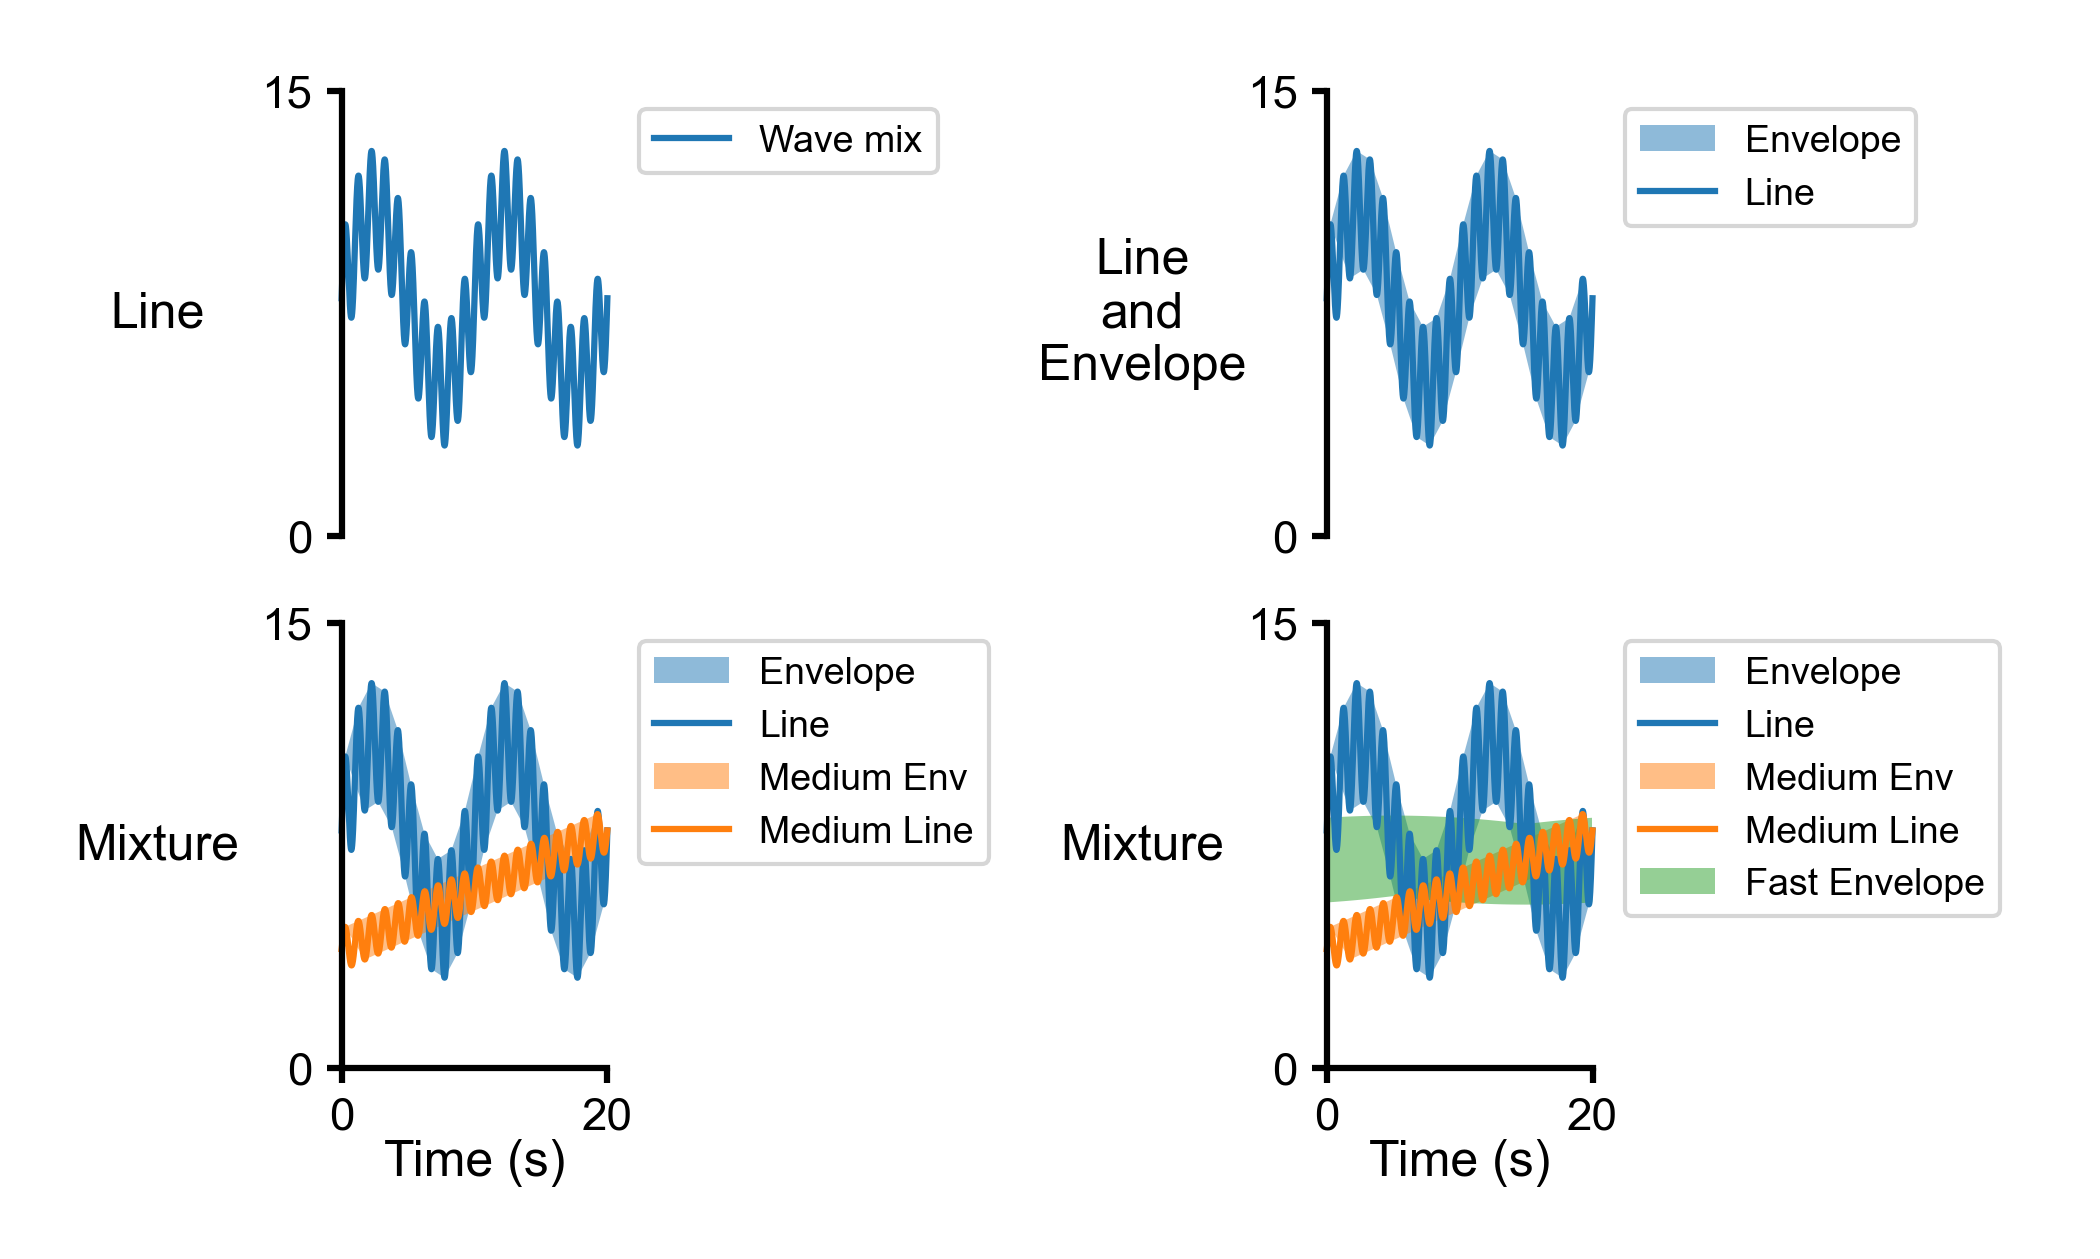
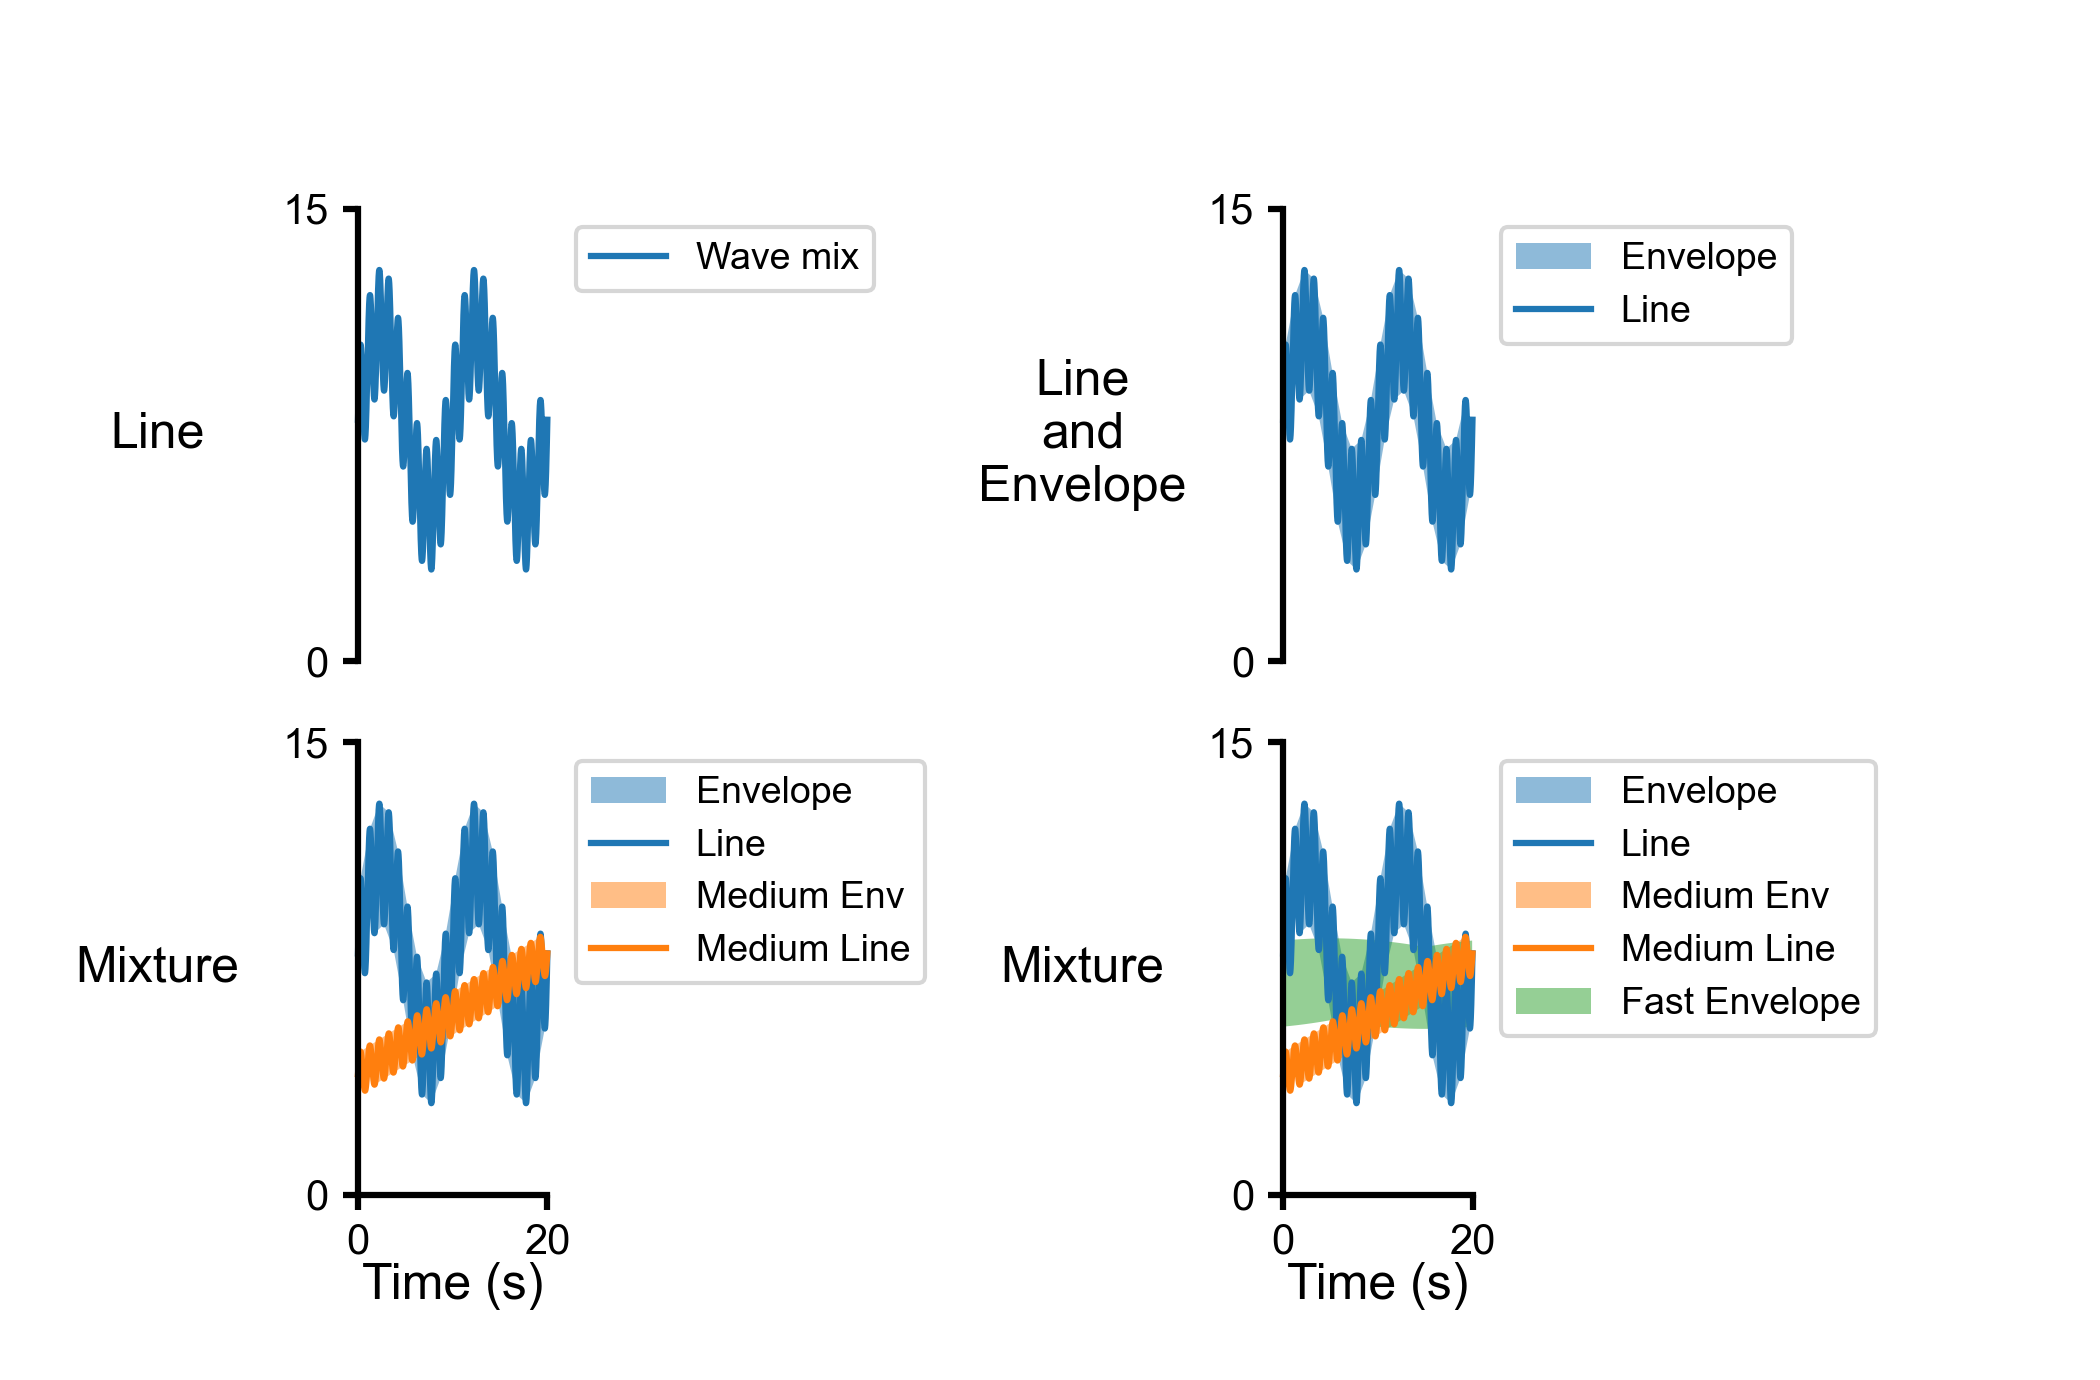
Tweaking docs

diff --git a/plots/multi_panel.py b/plots/multi_panel.py
@@ -28,7 +28,7 @@ def default_formatting():
     formatting['x_label_pad'] = 0
     formatting['y_label_rotation'] = 0
     formatting['y_label_fontsize'] = 12
-    formatting['y_label_pad'] = 25
+    formatting['y_label_pad'] = 30
     formatting['legend_location'] = 'upper left'
     formatting['legend_bbox_to_anchor'] = [1.05, 1]
     formatting['legend_fontsize'] = 9

diff --git a/docs/pages/demos/plots/multipanel/multipanel.md b/docs/pages/demos/plots/multipanel/multipanel.md
@@ -27,6 +27,132 @@ multi_panel_from_flat_data(
 
 The images below were generated from the same excel file by passing in the templates stored in `<repo>/demos/demos_plots/demos_multi_panel/json`.
 
+## Example template
+
+Template files lay out the structure in JSON format. You can over-write the default layouts and formatting by adding fields to the layout{} and formatting{} sections.
+
+Every panel is defined with a column number. The number of panel columns is the largest column number in the template. Panels are added sequentially to each column. The number of panel rows in the figure is the number of panels in the longest column.
+
+Here is an example file (2x2_envelope) that includes most of the current features.
+
+````
+{
+    "layout":
+    {
+        "fig_width": 7,
+        "panel_height": 2,
+        "top_margin": 0.5,
+        "right_margin": 0.5
+    },
+    "formatting":
+    {
+        "tick_fontsize": 10    
+    },
+    "x_display":
+    {
+        "global_x_field": "time",
+        "label": "Time (s)"
+    },
+    "panels":
+    [
+        {
+            "column": 1,
+            "y_info":
+            {
+                "label": "Line",
+                "series":
+                [
+                    {
+                        "field": "wave_mix",
+                        "field_label": "Wave mix"
+                    }
+                ]
+            }
+        },
+        {
+            "column": 2,
+            "y_info":
+            {
+                "label": "Line\nand\nEnvelope",
+                "series":
+                [
+                    {
+                        "field": "wave_mix",
+                        "style": "envelope",
+                        "field_label": "Envelope"
+                    },
+                    {
+                        "field": "wave_mix",
+                        "field_label": "Line"
+                    }
+                ]
+            }
+        },
+        {
+            "column": 1,
+            "y_info":
+            {
+                "label": "Mixture",
+                "series":
+                [
+                    {
+                        "field": "wave_mix",
+                        "style": "envelope",
+                        "field_label": "Envelope"
+                    },
+                    {
+                        "field": "wave_mix",
+                        "field_label": "Line"
+                    },
+                    {
+                        "field": "medium_wave",
+                        "style": "envelope",
+                        "field_label": "Medium Env"
+                    },
+                    {
+                        "field": "medium_wave",
+                        "field_label": "Medium Line"
+                    }
+                ]
+            }
+        },
+        {
+            "column": 2,
+            "y_info":
+            {
+                "label": "Mixture",
+                "series":
+                [
+                    {
+                        "field": "wave_mix",
+                        "style": "envelope",
+                        "field_label": "Envelope"
+                    },
+                    {
+                        "field": "wave_mix",
+                        "field_label": "Line"
+                    },
+                    {
+                        "field": "medium_wave",
+                        "style": "envelope",
+                        "field_label": "Medium Env"
+                    },
+                    {
+                        "field": "medium_wave",
+                        "field_label": "Medium Line"
+                    },
+                    {
+                        "field": "fast_wave",
+                        "style": "envelope",
+                        "field_label": "Fast Envelope"
+                    }
+                ]
+            }
+        }
+    ]
+}
+````
+
 ## Demo
 
 + Open a python prompt
